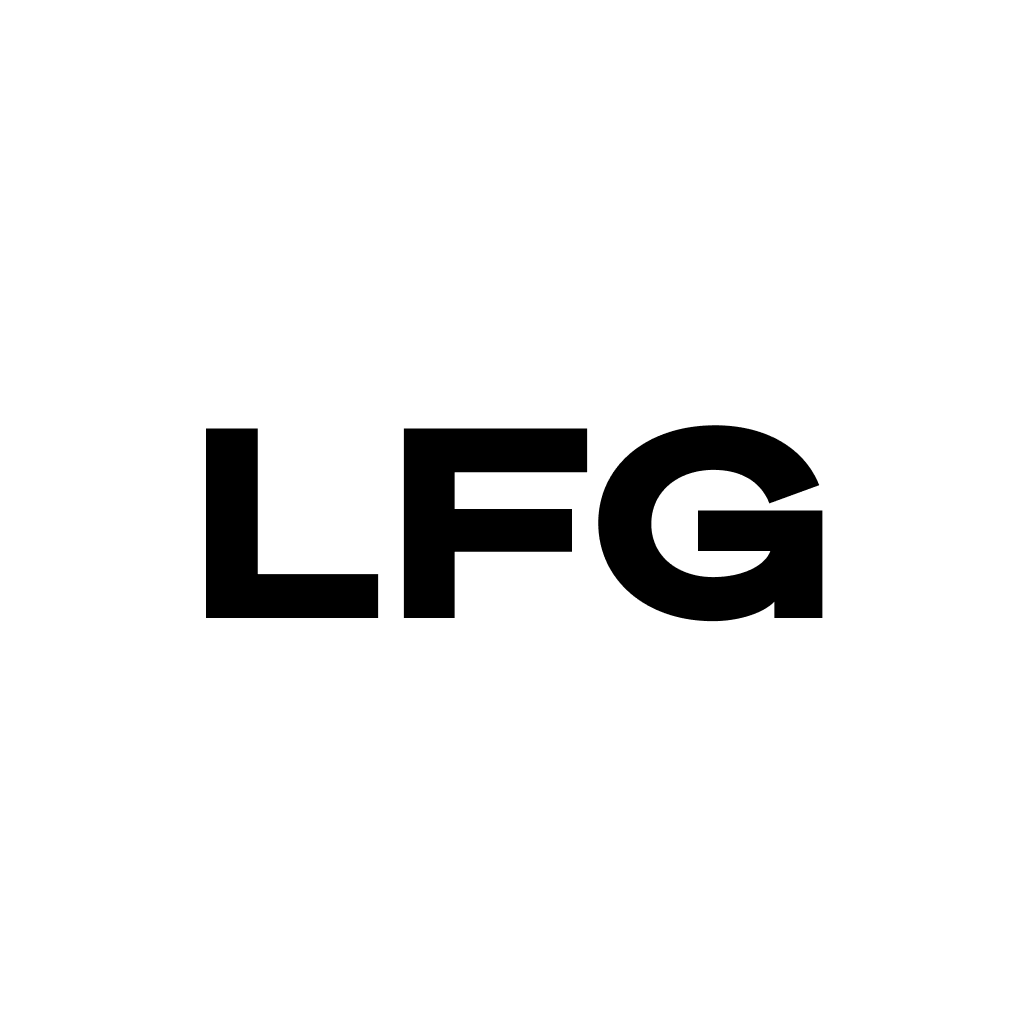
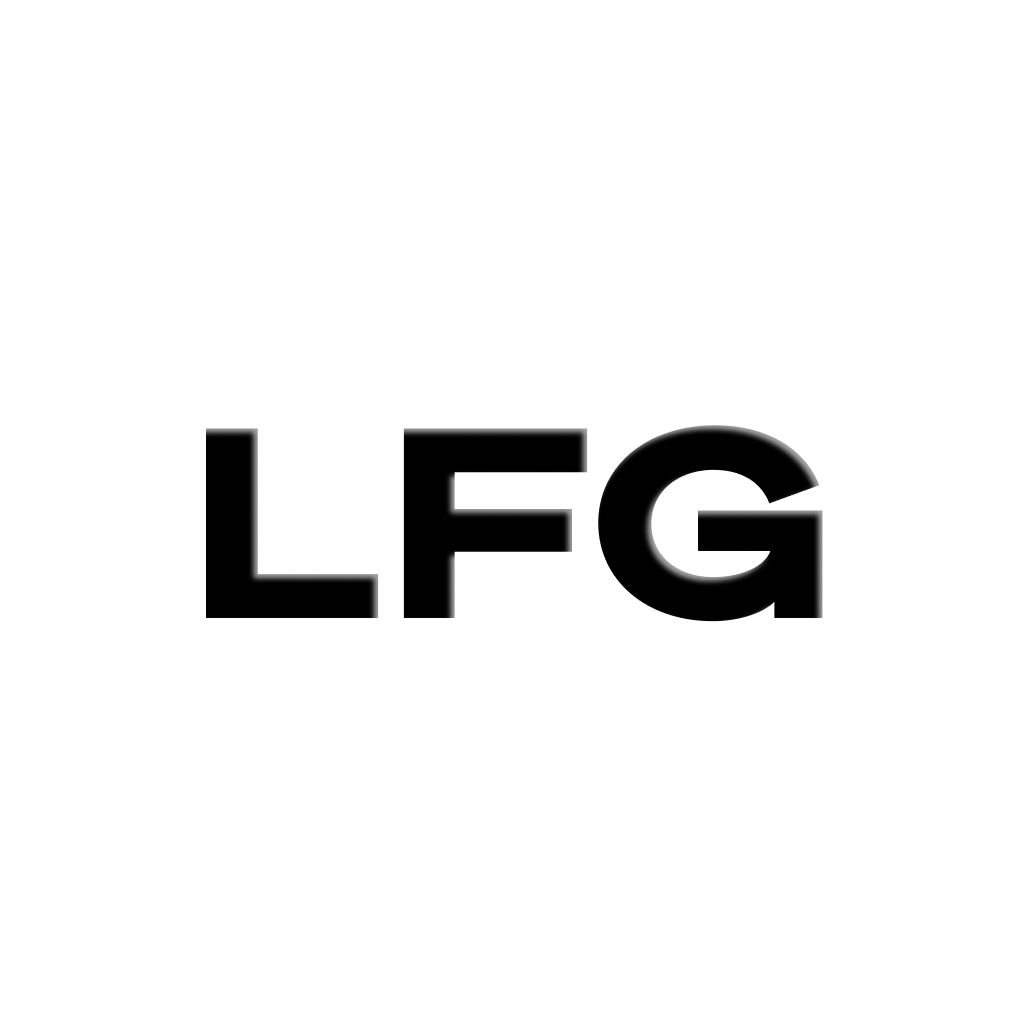
updated image & config

diff --git a/src/js/components/cube/index.js b/src/js/components/cube/index.js
@@ -17,9 +17,9 @@ const CONFIG = {
   rotateY: 1,
   rotateZ: 1,
   scale: 1,
-  borderWidth: 0.008,
-  displacementLength: 0.028,
-  reflectionOpacity: 0.3,
+  borderWidth: 0.016,
+  displacementLength: 0.06,
+  reflectionOpacity: 0.4,
   scene: 3,
 }
 
